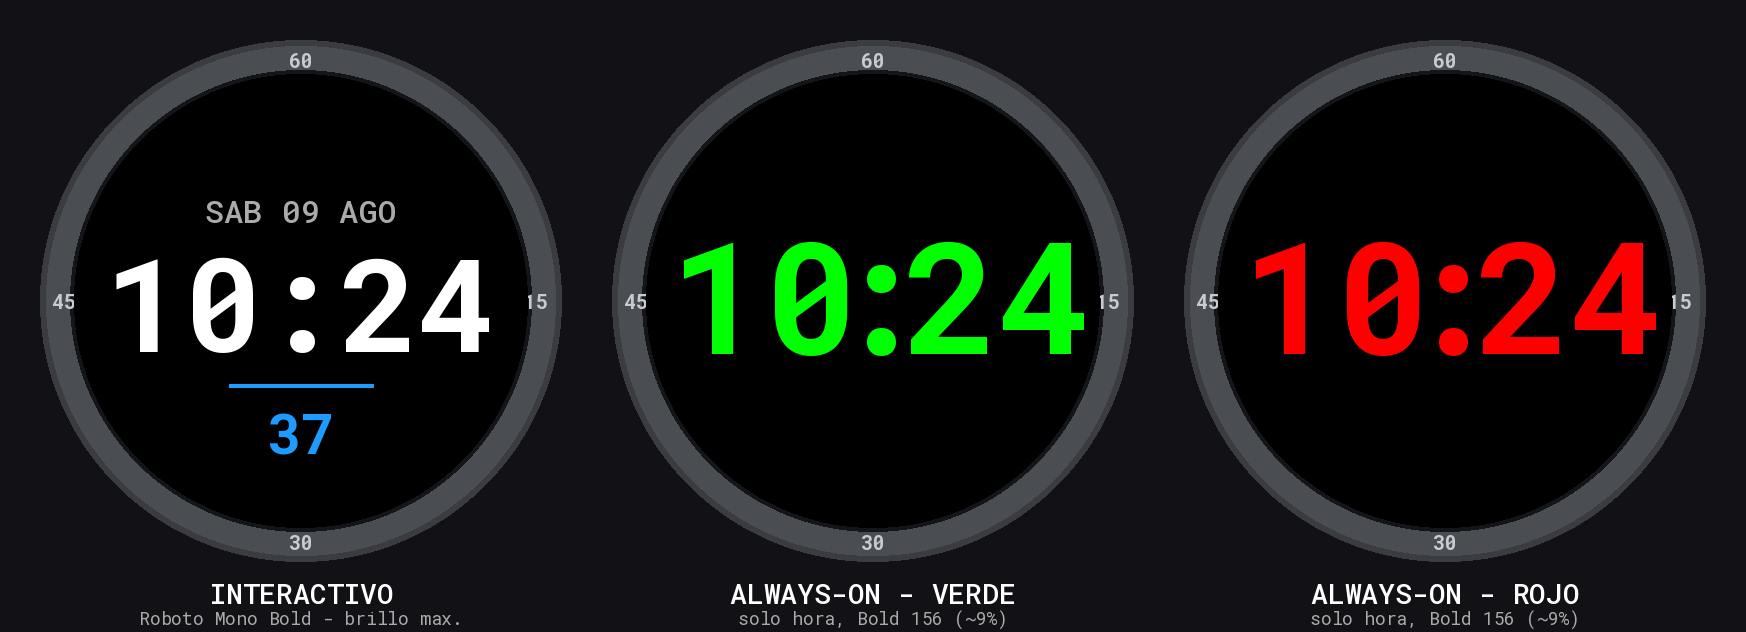
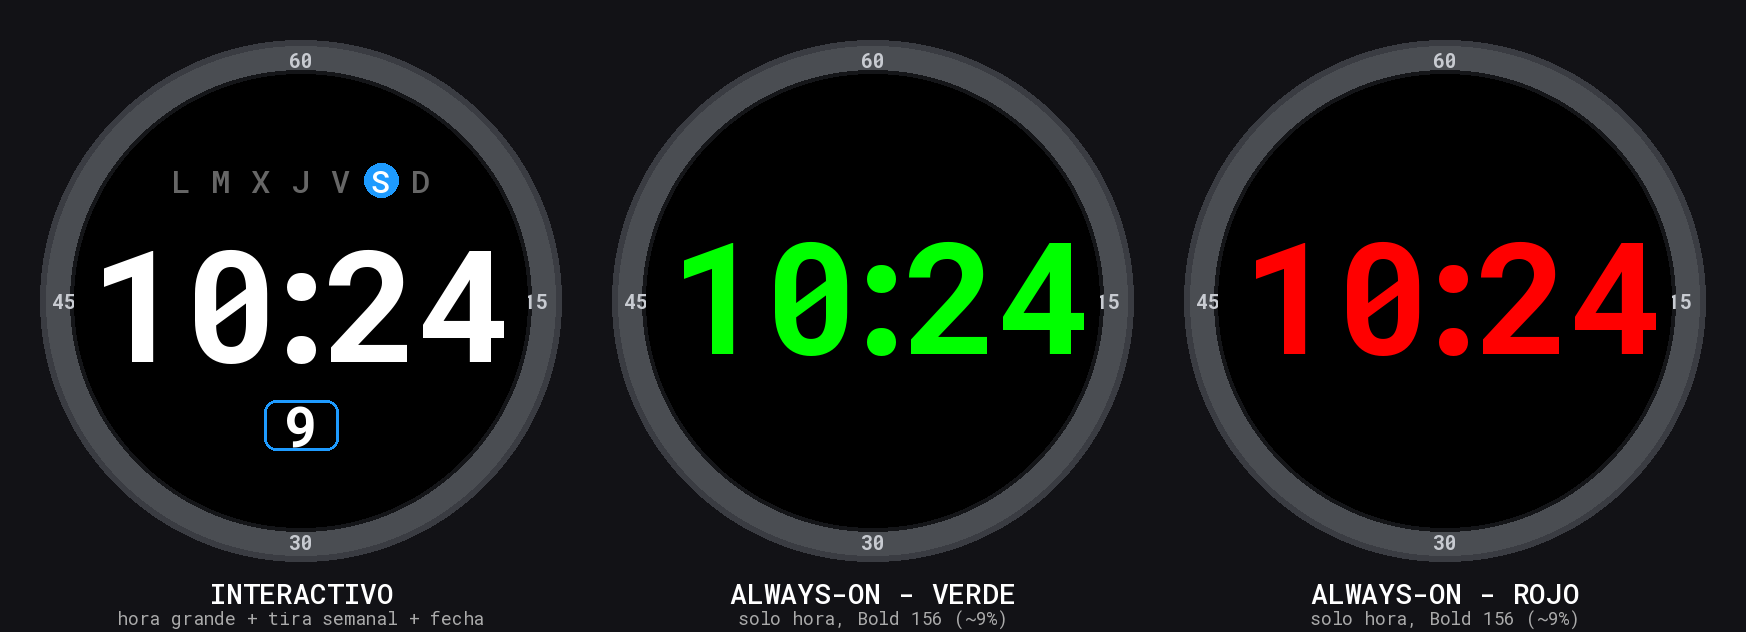
Redesign interactive face: bigger time, graphical weekday, date window
Per user request (legibility without glasses):
- Time now uses the large Bold 156 font (same size as AOD / stock faces),
  drawn in three blocks so it fits the round screen.
- Replace the small date text with graphical elements:
  * Weekday shown as a 7-pip strip (L M X J V S D, Monday-first) with today
    highlighted in an accent circle — read by position/color, no small text.
  * Day-of-month shown as a large number inside a rounded accent "date
    window", readable at a glance.
- Remove seconds entirely (and onPartialUpdate).
- Consolidate fonts: TimeBig (156) for both modes, NumBig (56) for the day
  number, DateMed (32) for weekday initials; drop the old TimeBold/TimeThin/
  SecBold/TimeAod atlases.
- Update preview and README to match.

Claude-Session: https://claude.ai/code/session_01Spqi8874cLT5cy9qNW1EXh

diff --git a/preview/preview_render.py b/preview/preview_render.py
@@ -13,29 +13,54 @@ OUT = os.path.join(_HERE, "preview.png")
 S = 454                      # pantalla
 ACCENT = (30, 155, 255)      # 0x1E9BFF
 WHITE = (255, 255, 255)
-GRAY = (170, 170, 170)       # 0xAAAAAA
+DIM = (102, 102, 102)        # 0x666666 (días no activos)
+GRAY = (170, 170, 170)
 GREEN = (0, 255, 0)          # 0x00FF00
 RED = (255, 0, 0)            # 0xFF0000
 
 # fuentes (mismos tamaños que el código / BMFont)
-f_time_bold = ImageFont.truetype(f"{SRC}/RobotoMono-Bold.ttf", 130)   # interactivo
-f_aod = ImageFont.truetype(f"{SRC}/RobotoMono-Bold.ttf", 156)         # AOD grande
-f_sec = ImageFont.truetype(f"{SRC}/RobotoMono-Bold.ttf", 56)
-f_date = ImageFont.truetype(f"{SRC}/RobotoMono-Medium.ttf", 32)
+f_time = ImageFont.truetype(f"{SRC}/RobotoMono-Bold.ttf", 156)    # hora grande
+f_num = ImageFont.truetype(f"{SRC}/RobotoMono-Bold.ttf", 56)      # nº día del mes
+f_init = ImageFont.truetype(f"{SRC}/RobotoMono-Medium.ttf", 32)   # iniciales
 
-Y_DATE, Y_TIME, Y_LINE, Y_SEC = 0.30, 0.50, 0.685, 0.79
+Y_STRIP, Y_TIME, Y_DATE = 0.235, 0.50, 0.775
 
 
-def draw_aod_time(d, cx, cy, color):
+def draw_big_time(d, cx, cy, color):
     """Dibuja HH : MM en tres bloques con ':' ceñido (como el código)."""
     hh, mm = "10", "24"
-    wB = f_aod.getlength(hh)
-    colonSlot = int(f_aod.getlength(":") * 0.5)
+    wB = f_time.getlength(hh)
+    colonSlot = int(f_time.getlength(":") * 0.5)
     totalW = wB * 2 + colonSlot
     x0 = cx - totalW / 2
-    d.text((x0, cy), hh, font=f_aod, fill=color, anchor="lm")
-    d.text((x0 + wB + colonSlot / 2, cy), ":", font=f_aod, fill=color, anchor="mm")
-    d.text((x0 + wB + colonSlot, cy), mm, font=f_aod, fill=color, anchor="lm")
+    d.text((x0, cy), hh, font=f_time, fill=color, anchor="lm")
+    d.text((x0 + wB + colonSlot / 2, cy), ":", font=f_time, fill=color, anchor="mm")
+    d.text((x0 + wB + colonSlot, cy), mm, font=f_time, fill=color, anchor="lm")
+
+
+def draw_week_strip(d, cx, cy, today_idx):
+    initials = "LMXJVSD"
+    n, step, r = 7, 40, 17
+    startX = cx - (step * (n - 1)) // 2
+    for i in range(n):
+        x = startX + i * step
+        ch = initials[i]
+        if i == today_idx:
+            d.ellipse([x - r, cy - r, x + r, cy + r], fill=ACCENT)
+            d.text((x, cy), ch, font=f_init, fill=WHITE, anchor="mm")
+        else:
+            d.text((x, cy), ch, font=f_init, fill=DIM, anchor="mm")
+
+
+def draw_day_window(d, cx, cy, day):
+    num = str(day)
+    l, t, rr, b = d.textbbox((cx, cy), num, font=f_num, anchor="mm")
+    boxW = (rr - l) + 40
+    boxH = (b - t) + 8
+    x0, y0 = cx - boxW // 2, cy - boxH // 2
+    d.rounded_rectangle([x0, y0, x0 + boxW, y0 + boxH], radius=12,
+                        outline=ACCENT, width=3)
+    d.text((cx, cy), num, font=f_num, fill=WHITE, anchor="mm")
 
 
 def face(mode, aod_color=None):
@@ -44,15 +69,12 @@ def face(mode, aod_color=None):
     cx = S // 2
 
     if mode == "interactive":
-        d.text((cx, int(S * Y_DATE)), "SAB 09 AGO", font=f_date, fill=GRAY, anchor="mm")
-        d.text((cx, int(S * Y_TIME)), "10:24", font=f_time_bold, fill=WHITE, anchor="mm")
-        half = int(S * 0.16)
-        ly = int(S * Y_LINE)
-        d.rectangle([cx - half, ly, cx + half, ly + 3], fill=ACCENT)
-        d.text((cx, int(S * Y_SEC)), "37", font=f_sec, fill=ACCENT, anchor="mm")
+        draw_week_strip(d, cx, int(S * Y_STRIP), 5)   # sábado resaltado
+        draw_big_time(d, cx, int(S * Y_TIME), WHITE)
+        draw_day_window(d, cx, int(S * Y_DATE), 9)
     else:  # always-on: solo la hora, grande, con desplazamiento de ejemplo
         ox, oy = 8, -8
-        draw_aod_time(d, cx + ox, S // 2 + oy, aod_color)
+        draw_big_time(d, cx + ox, S // 2 + oy, aod_color)
 
     mask = Image.new("L", (S, S), 0)
     ImageDraw.Draw(mask).ellipse([0, 0, S - 1, S - 1], fill=255)
@@ -78,7 +100,7 @@ def watch(mode, aod_color=None):
 
 # Composición: tres relojes
 items = [
-    ("interactive", None, "INTERACTIVO", "Roboto Mono Bold - brillo max."),
+    ("interactive", None, "INTERACTIVO", "hora grande + tira semanal + fecha"),
     ("aod", GREEN, "ALWAYS-ON - VERDE", "solo hora, Bold 156 (~9%)"),
     ("aod", RED, "ALWAYS-ON - ROJO", "solo hora, Bold 156 (~9%)"),
 ]

diff --git a/fonts-src/gen_fonts.py b/fonts-src/gen_fonts.py
@@ -17,10 +17,9 @@ TIME_CHARS = DIGITS + ":"
 DATE_CHARS = "ABCDEFGHIJKLMNOPQRSTUVWXYZ" + DIGITS + " "
 
 JOBS = [
-    ("TimeBold", "RobotoMono-Bold.ttf",   130, TIME_CHARS),   # hora interactiva
-    ("TimeAod",  "RobotoMono-Bold.ttf",   156, TIME_CHARS),   # hora AOD (grande, ~9%)
-    ("SecBold",  "RobotoMono-Bold.ttf",    56, DIGITS),       # segundos
-    ("DateMed",  "RobotoMono-Medium.ttf",  32, DATE_CHARS),   # fecha
+    ("TimeBig", "RobotoMono-Bold.ttf",   156, TIME_CHARS),   # hora (interactivo + AOD)
+    ("NumBig",  "RobotoMono-Bold.ttf",    56, DIGITS),       # número del día del mes
+    ("DateMed", "RobotoMono-Medium.ttf",  32, DATE_CHARS),   # iniciales de la tira semanal
 ]
 
 PAD = 2  # separación entre glifos en el atlas

diff --git a/README.md b/README.md
@@ -15,9 +15,14 @@ La esfera tiene **dos presentaciones** que cambian solas:
 ### Modo INTERACTIVO (cuando miras el reloj)
 
 - **Fondo negro** con máximo contraste.
-- **Hora `HH:MM`** en **Roboto Mono Bold**, muy grande y blanca.
-- **Día + fecha** arriba (`LUN 09 AGO`) en gris.
-- **Segundos** en color de **acento** + fina línea de acento.
+- **Hora `HH:MM`** en **Roboto Mono Bold 156**, muy grande y blanca (mismo
+  tamaño que las esferas de fábrica).
+- **Día de la semana gráfico**: una **tira de 7 puntos** (`L M X J V S D`,
+  lunes primero) con el día de hoy resaltado en un círculo de acento. Se lee
+  de un vistazo por posición y color, sin depender de números pequeños.
+- **Día del mes** en un **número grande dentro de un recuadro** ("ventana de
+  fecha"), legible sin gafas.
+- **Sin segundos.**
 
 ### Modo ALWAYS-ON (reposo, pantalla siempre encendida)
 
